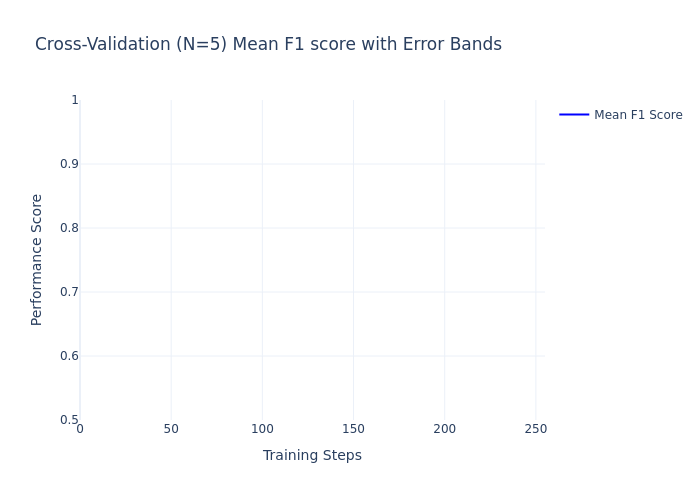
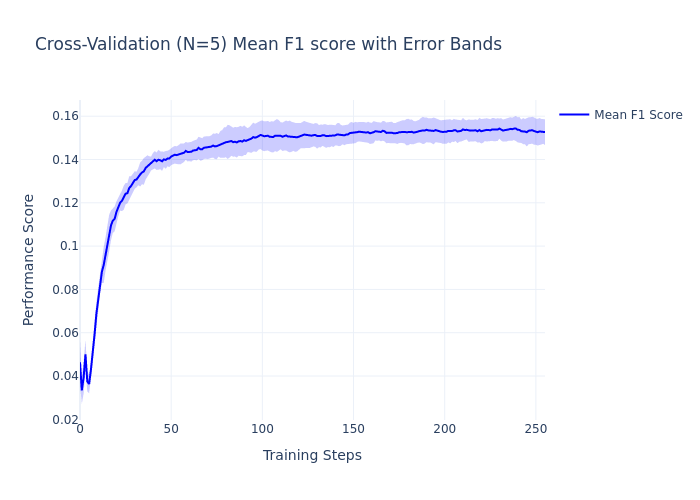
Wersja 1.4 cleaned, make test OK

diff --git a/ARISA_DSML/train.py b/ARISA_DSML/train.py
@@ -110,6 +110,7 @@ def train_cv(
         fold_count=n,
         partition_random_seed=42,
         shuffle=True,
+        verbose=True,
     )
 
     MODELS_DIR.mkdir(parents=True, exist_ok=True)
@@ -135,11 +136,9 @@ def train(
     log_params["feature_columns"] = X_train.columns.tolist()
     log_params["random_seed"] = 42
 
-    #model = CatBoostClassifier(**log_params, verbose=True)
+    # model = CatBoostClassifier(**log_params, verbose=True)
     params_for_model = {k: v for k, v in log_params.items() if k != "feature_columns"}
     model = CatBoostClassifier(**params_for_model, verbose=True)
-
-
 
     with mlflow.start_run() as run:
         model.fit(
@@ -151,9 +150,9 @@ def train(
             plot=False,
         )
 
-        #MODELS_DIR.mkdir(parents=True, exist_ok=True)
-        #model_path = MODELS_DIR / "catboost_model.cbm"
-        #model.save_model(model_path)
+        # MODELS_DIR.mkdir(parents=True, exist_ok=True)
+        # model_path = MODELS_DIR / "catboost_model.cbm"
+        # model.save_model(model_path)
 
         MODELS_DIR.mkdir(parents=True, exist_ok=True)
         model_path = MODELS_DIR / "catboost_model.cbm"
@@ -163,9 +162,6 @@ def train(
         local_model_path = MODELS_DIR / "model.cb"
         model.save_model(local_model_path)
         logger.info(f"Saved local model copy to {local_model_path}")
-
-
-
 
         mlflow.log_params(log_params)
         mlflow.catboost.log_model(model, "model")
@@ -193,7 +189,7 @@ def train(
                 title="Cross-Validation (N=5) Mean F1 score with Error Bands",
                 xtitle="Training Steps",
                 ytitle="Performance Score",
-                yaxis_range=[0.5, 1.0],
+                # yaxis_range=[0.5, 1.0],
             )
             mlflow.log_figure(fig1, "test-F1-mean_vs_iterations.png")
 
@@ -214,6 +210,7 @@ def train(
         reference_df["prediction"] = model.predict(X_train)
         reference_df["predicted_probability"] = [p[1] for p in model.predict_proba(X_train)]
         reference_df[target] = y_train.values if hasattr(y_train, "values") else y_train
+
         chunk_size = 5000
 
         udc = nml.UnivariateDriftCalculator(

diff --git a/ARISA_DSML/predict.py b/ARISA_DSML/predict.py
@@ -5,6 +5,7 @@ import os
 from pathlib import Path
 
 from catboost import CatBoostClassifier
+import joblib
 from loguru import logger
 import matplotlib.pyplot as plt
 import mlflow
@@ -12,7 +13,6 @@ from mlflow.client import MlflowClient
 import nannyml as nml
 import pandas as pd
 import shap
-import joblib
 
 from ARISA_DSML.config import (
     FIGURES_DIR,
@@ -141,10 +141,9 @@ if __name__ == "__main__":
 
     from ARISA_DSML.helpers import get_git_commit_hash
 
-    #git_hash = get_git_commit_hash()
-    #mlflow.set_experiment("heart_disease_predictions")
-
-    #with mlflow.start_run(tags={"git_sha": git_hash}):
+    # git_hash = get_git_commit_hash()
+    # mlflow.set_experiment("heart_disease_predictions")
+    # with mlflow.start_run(tags={"git_sha": git_hash}):
     git_hash = str(get_git_commit_hash() or "")
     mlflow.set_experiment("heart_disease_predictions")
     with mlflow.start_run(tags={"git_sha": git_hash}):
@@ -163,6 +162,10 @@ if __name__ == "__main__":
             drift_df = analysis_df.drop(columns=["prediction", "predicted_probability"], axis=1)
             if target in drift_df.columns:
                 drift_df = drift_df.drop(columns=[target])
+
+            if "Race" in drift_df.columns:
+                drift_df = drift_df.drop(columns=["Race"])
+                logger.info("Dropped Race column to avoid drift calculation issues")
 
             univariate_drift = udc.calculate(drift_df)
             plot_col_names = drift_df.columns.tolist()
